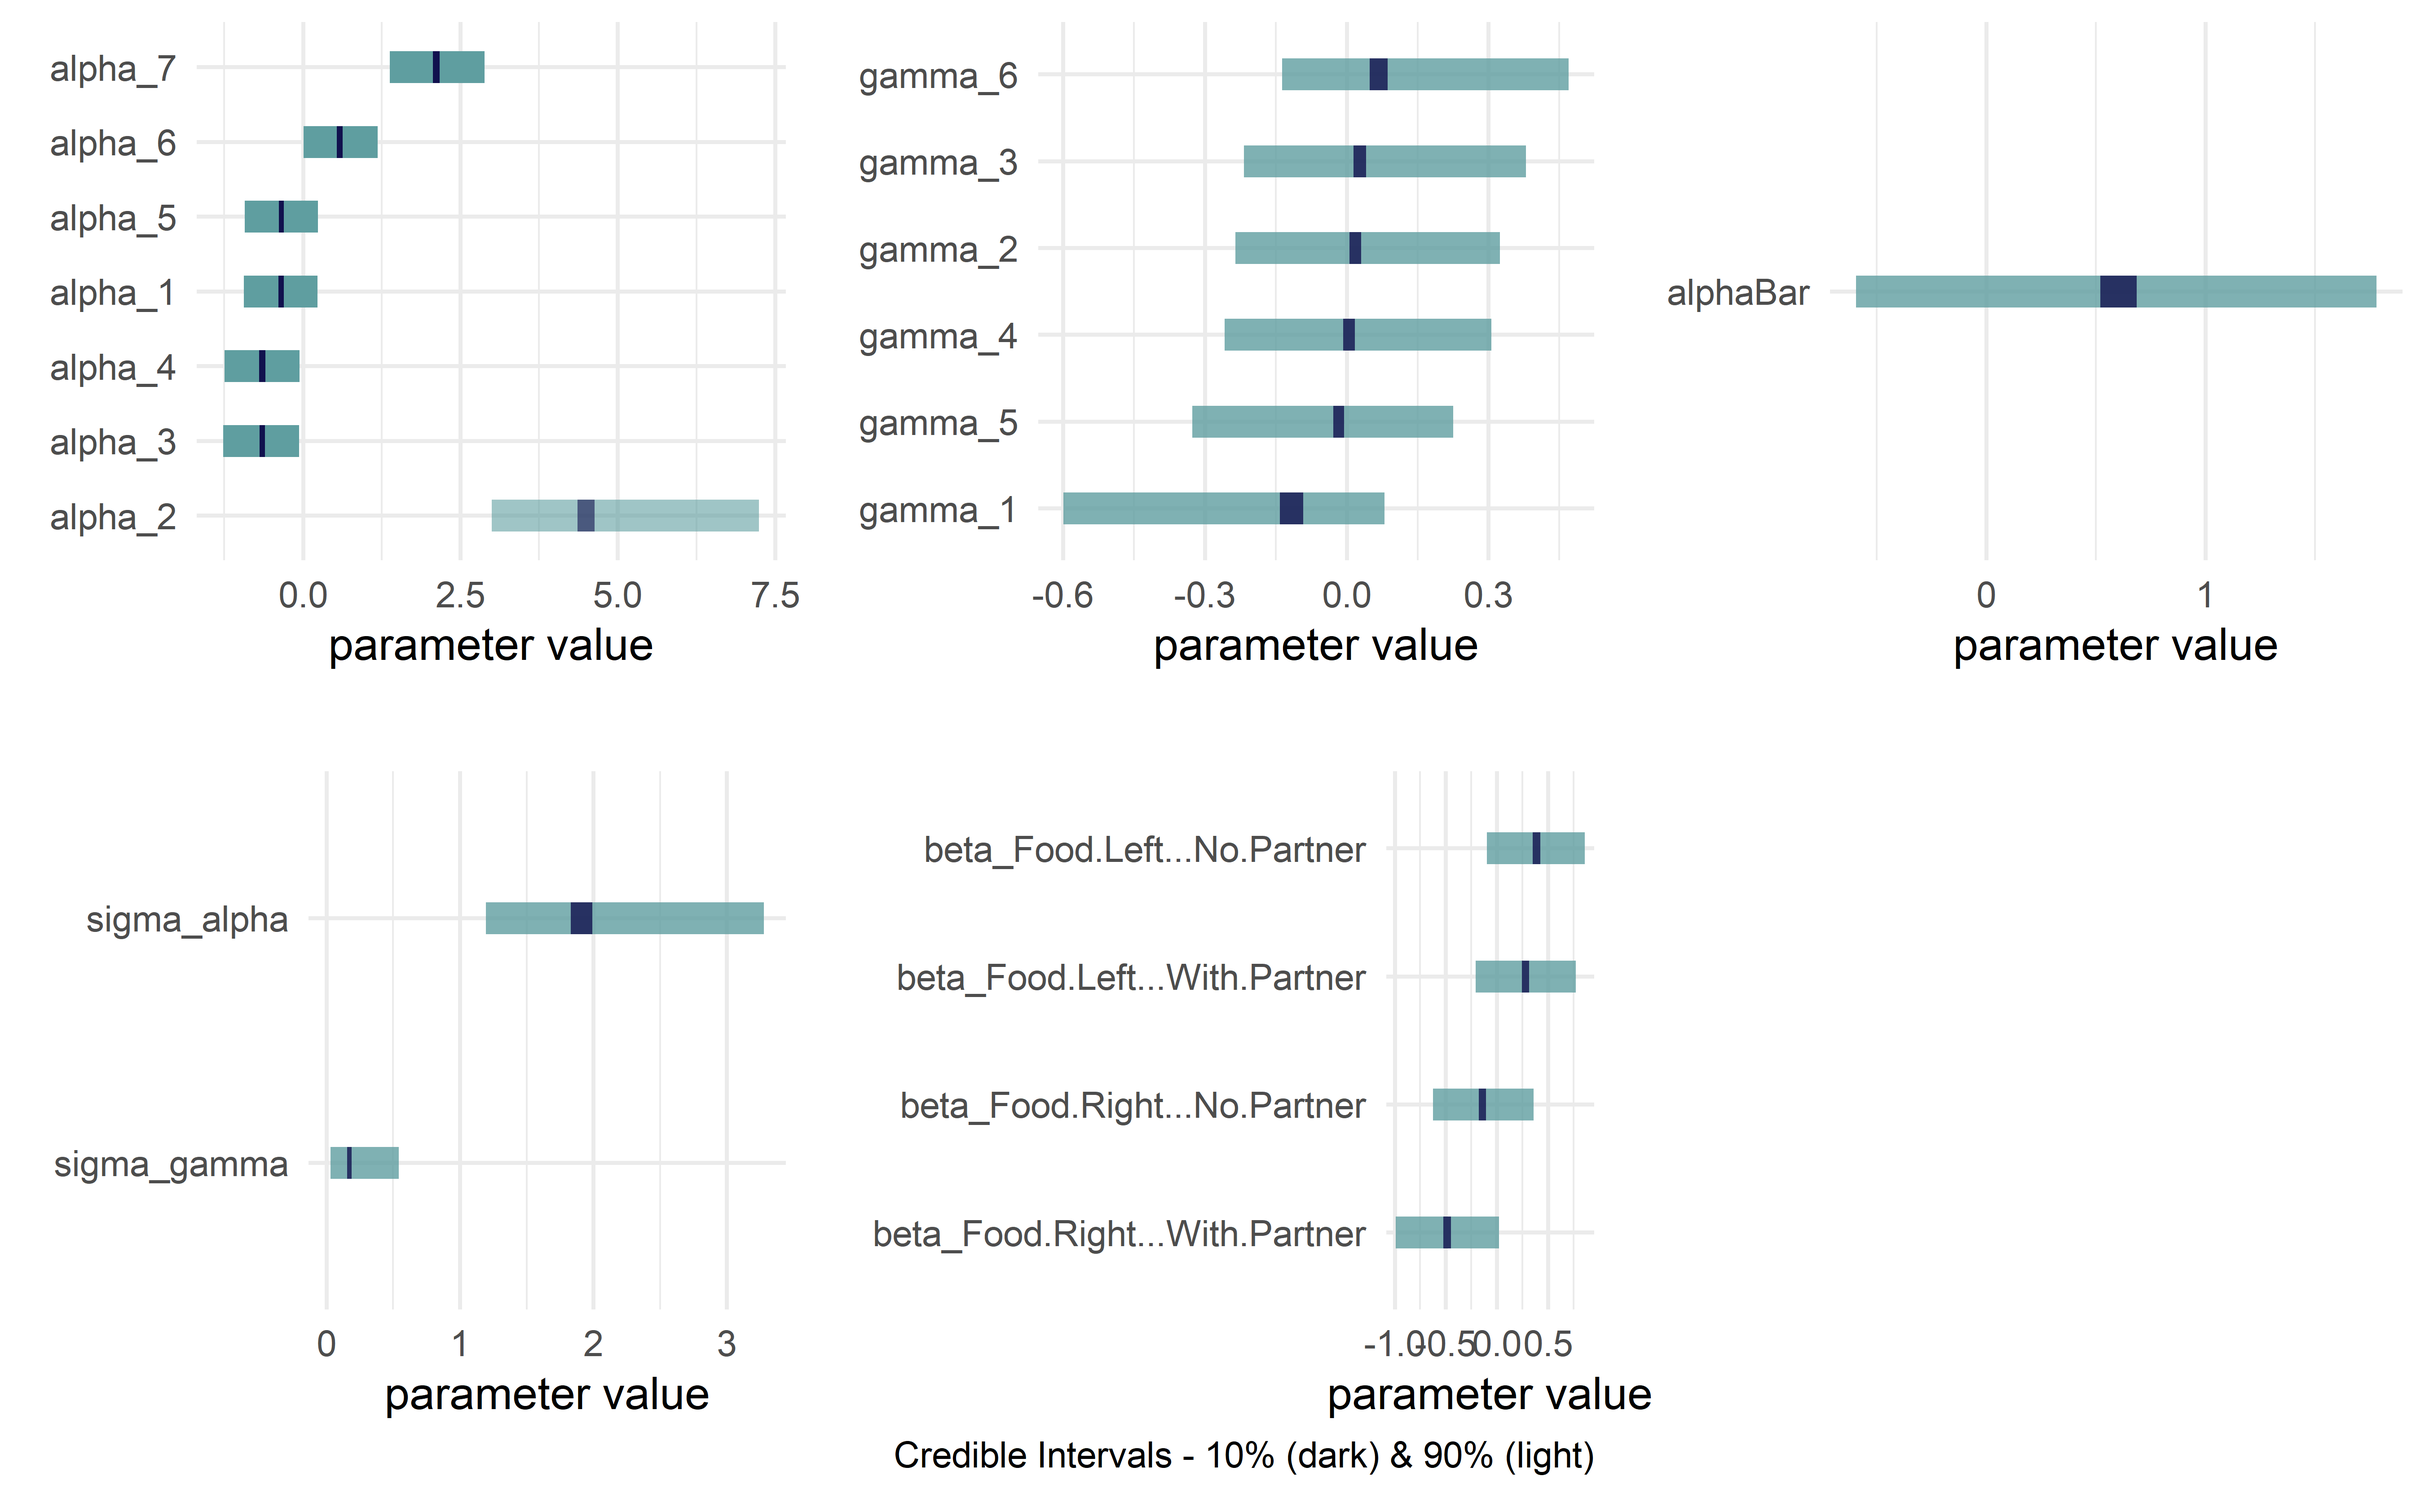
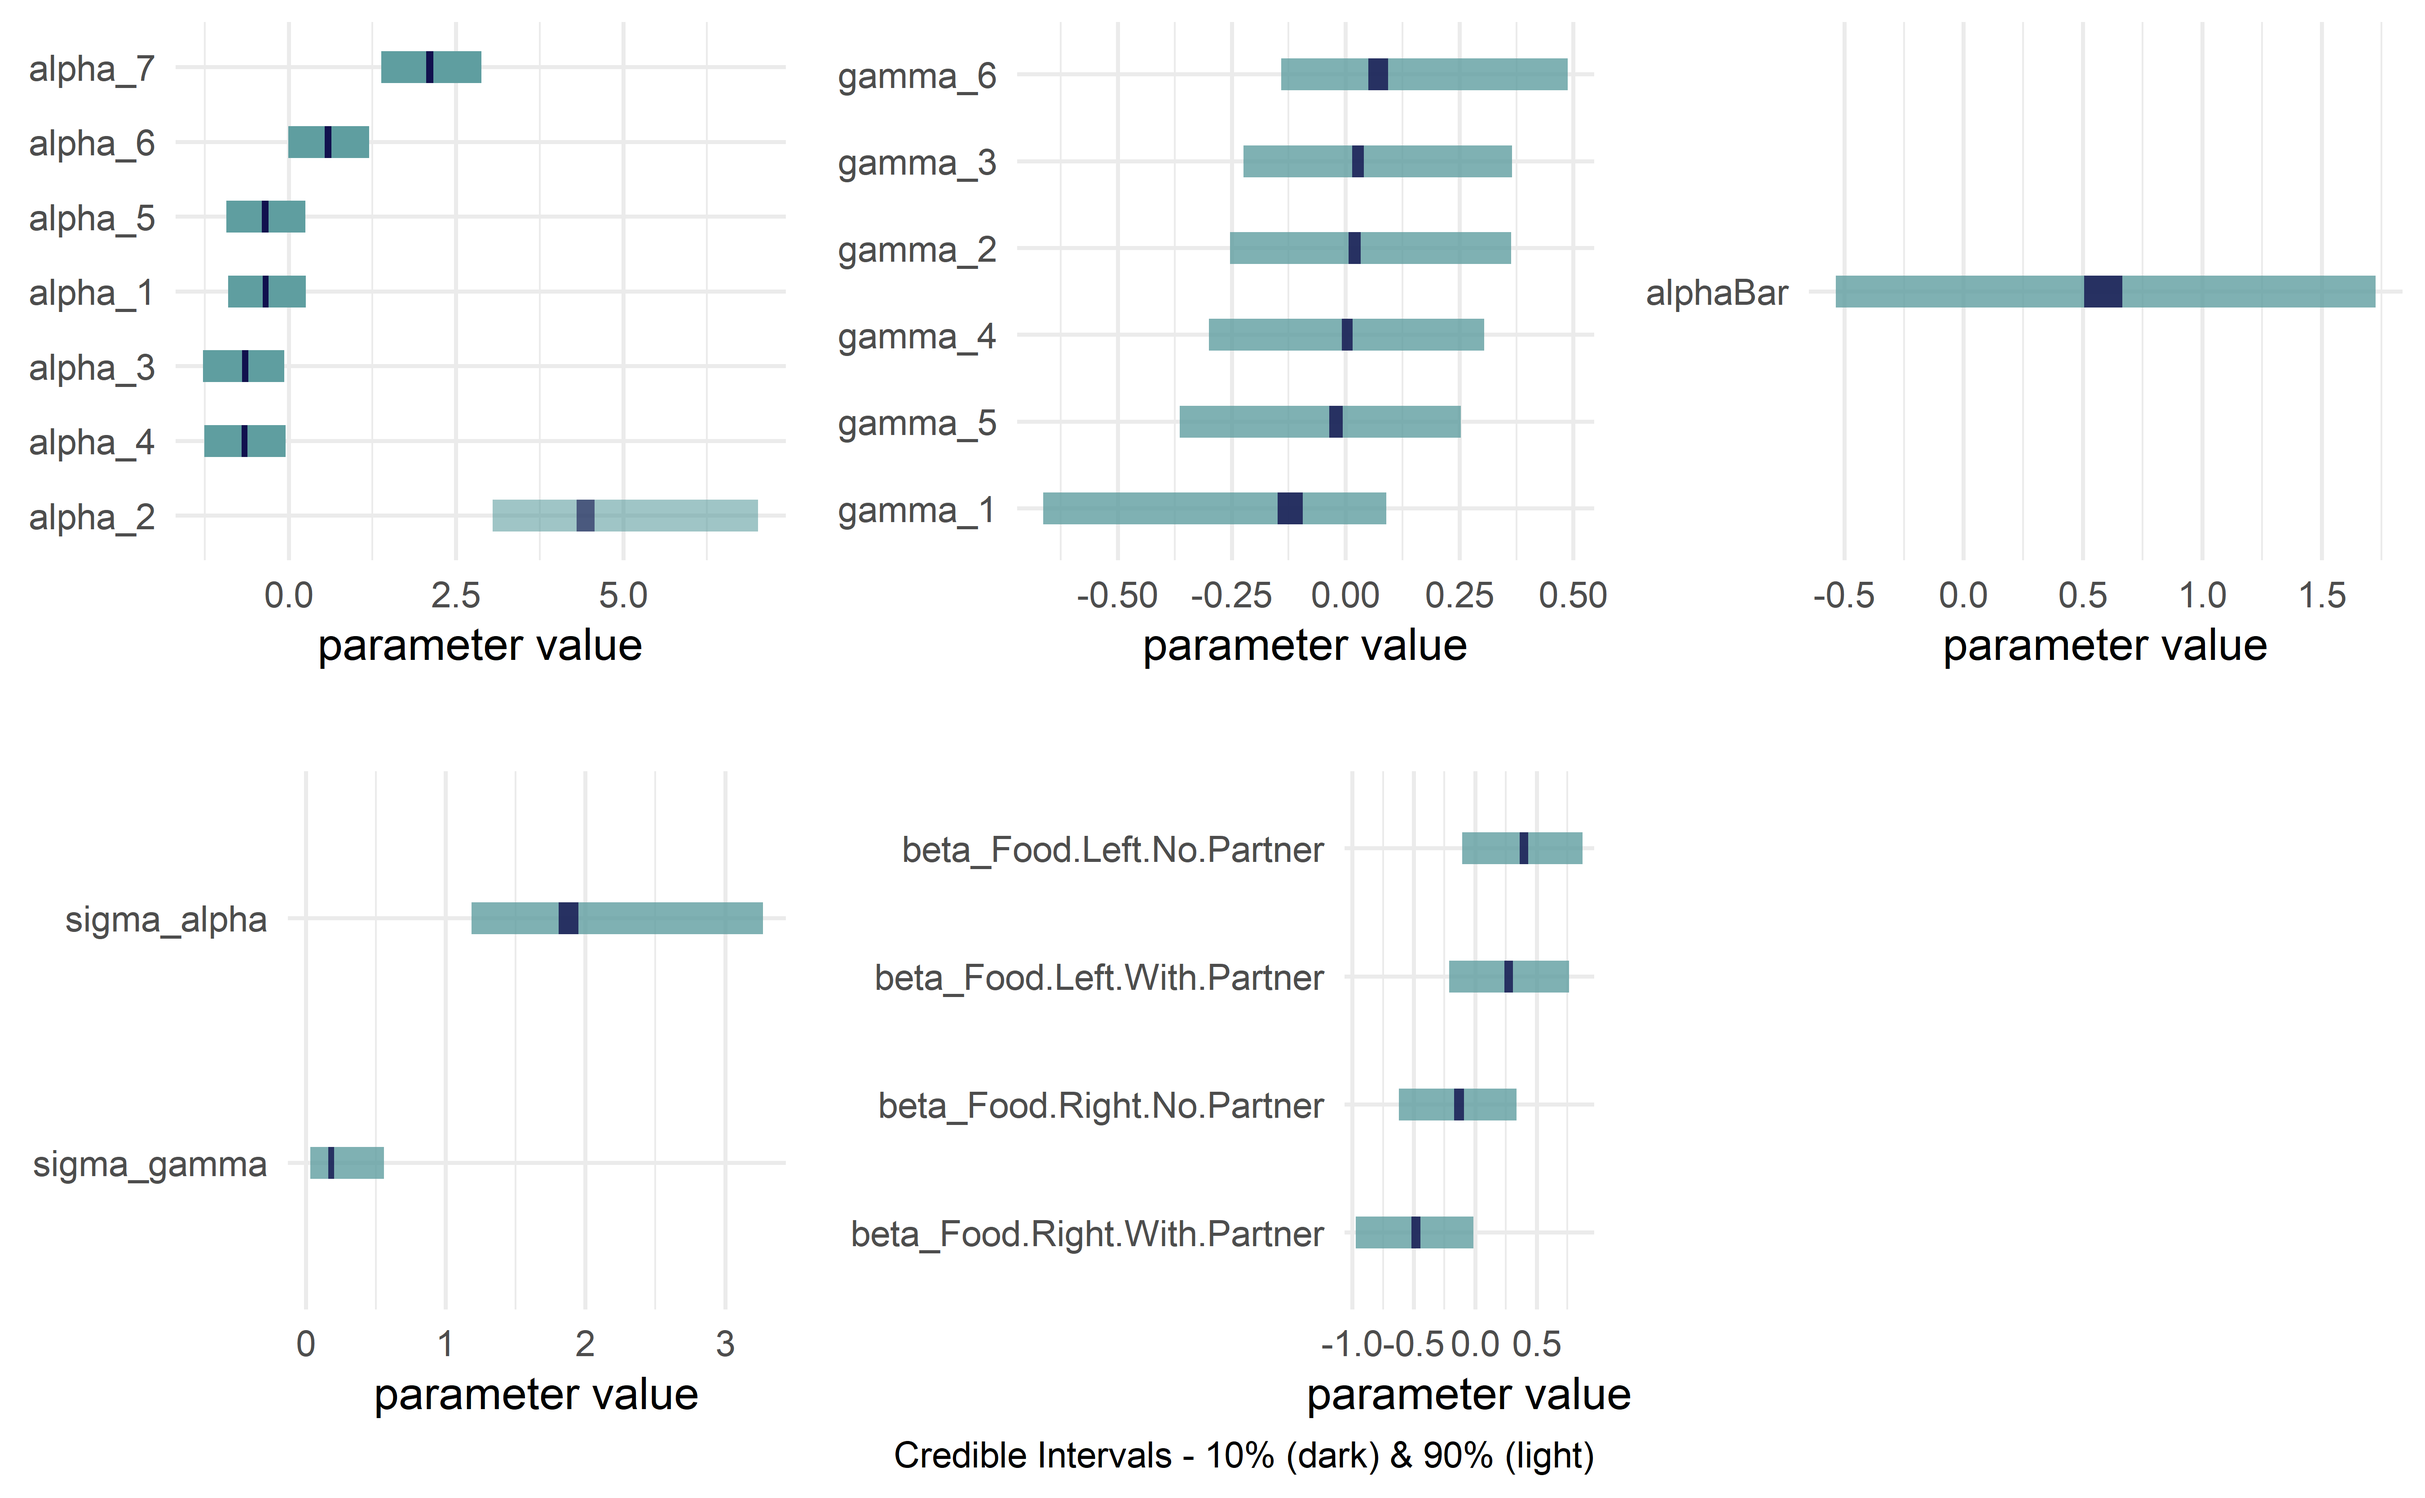
release 0.6.0

diff --git a/README.md b/README.md
@@ -183,16 +183,16 @@ drawsDF  ### see top of data frame
 #> # A tibble: 4,000 × 4
 #>    theta_Toyota.Corolla theta_Subaru.Outback theta_Kia.Forte theta_Jeep.Wrangler
 #>                   <dbl>                <dbl>           <dbl>               <dbl>
-#>  1                0.196                0.617           0.293               0.853
-#>  2                0.188                0.643           0.214               0.867
-#>  3                0.182                0.641           0.215               0.862
-#>  4                0.202                0.658           0.245               0.882
-#>  5                0.191                0.652           0.293               0.854
-#>  6                0.166                0.594           0.236               0.844
-#>  7                0.214                0.626           0.230               0.843
-#>  8                0.207                0.579           0.249               0.854
-#>  9                0.189                0.601           0.271               0.831
-#> 10                0.219                0.641           0.219               0.865
+#>  1                0.215                0.582           0.226               0.839
+#>  2                0.194                0.643           0.264               0.853
+#>  3                0.216                0.602           0.243               0.831
+#>  4                0.217                0.647           0.177               0.843
+#>  5                0.186                0.580           0.309               0.853
+#>  6                0.230                0.633           0.237               0.846
+#>  7                0.217                0.619           0.263               0.859
+#>  8                0.205                0.692           0.274               0.862
+#>  9                0.191                0.693           0.332               0.847
+#> 10                0.188                0.655           0.174               0.851
 #> # ℹ 3,990 more rows
 ```
 
@@ -253,9 +253,55 @@ numpyroCode = graph %>% dag_numpyro(mcmc = FALSE)
 #> mcmc = MCMC(NUTS(graph_model), num_warmup = 1000, num_samples = 4000)
 #> rng_key = random.PRNGKey(seed = 1234567)
 #> mcmc.run(rng_key,y,x)
-#> samples = mcmc.get_samples(group_by_chain=True) # dict: name -> [chains, draws, ...]
-#>  flat = {k: np.reshape(v, (-1,) + v.shape[2:]) for k, v in samples.items()} 
-#>  drawsDF = pd.DataFrame({k: flat[k].squeeze() for k in flat})
+#> axis_labels = {'x_dim': x_crd}
+#> rv_to_axes = {'theta': ['x_dim']}
+#> drop_names = set()
+#> samples = mcmc.get_samples(group_by_chain=True)  # dict: name -> [chains, draws, *axes]
+#> import numpy as np, pandas as pd, string
+#> # Flatten (chains*draws) and expand RVs using rv_to_axes + axis_labels
+#> flat = {name: np.reshape(val, (-1,) + val.shape[2:]) for name, val in list(samples.items())}
+#> out = {}
+#> allowed = set(string.ascii_letters + string.digits + '._')
+#> def sanitize_label(s):
+#>     s = str(s).strip().replace(' ', '.')          # spaces -> dots
+#>     s = ''.join((ch if ch in allowed else '.') for ch in s)
+#>     # collapse repeated dots without regex
+#>     while '..' in s:
+#>         s = s.replace('..', '.')
+#>     s = s.strip('.')
+#>     return s if s else '1'
+#> 
+#> for name, arr in list(flat.items()):
+#>     # Drop deterministic RVs entirely
+#>     if name in drop_names:
+#>         continue
+#>     axes = rv_to_axes.get(name, [])  # [] if not present
+#>     # If scalar per draw, keep as a single column
+#>     if arr.ndim == 1:
+#>         out[name] = arr
+#>         continue
+#>     # Otherwise (vector/matrix/...): expand to separate columns
+#>     trailing = arr.shape[1:]
+#>     arr2 = arr.reshape(arr.shape[0], int(np.prod(trailing)))
+#>     for j in range(arr2.shape[1]):
+#>         idx = np.unravel_index(j, trailing)
+#>         parts = []
+#>         for axis, i in enumerate(idx):
+#>             if axis < len(axes):
+#>                 axis_name = axes[axis]
+#>                 labels = axis_labels.get(axis_name)
+#>                 if labels is not None:
+#>                     labs = np.asarray(labels).astype(str)
+#>                     lab = labs[i] if i < labs.shape[0] else str(i + 1)
+#>                     parts.append(sanitize_label(lab))
+#>                 else:
+#>                     parts.append(str(i + 1))
+#>             else:
+#>                 parts.append(str(i + 1))
+#>         # No brackets; join labels with '_' so tibble won't append trailing dots
+#>         col = name if not parts else name + '_' + '_'.join(parts)
+#>         out[col] = arr2[:, j]
+#> drawsDF = pd.DataFrame(out)"
 #> ) ## END PYTHON STRING
 #> drawsDF = reticulate::py$drawsDF
 ```

diff --git a/NEWS.md b/NEWS.md
@@ -1,24 +1,35 @@
 # causact (development version)
 
-# causact 0.5.8
+# causact 0.6.0
+
+* Updated `dag_numpyro()` to address compatibility issues with `JAX 0.7.1`, resolving the error:  
+  `ImportError: cannot import name 'pjit_p' from 'jax.experimental.pjit'`.
+* Removed the dependency on Python’s `arviz` package to improve long-term compatibility across Python environments. The `arviz` dependency has introduced bugs in past releases and remains unstable in its current version.
+* Revised `dag_plotp()` to suppress warning messages triggered by recent updates to `ggplot2`.
+
 
 # causact 0.5.8
 * patch release to support changes to object types in ggplot2.
 
 # causact 0.5.6
+
 * patch release to fix numpyro integration issues. The default installation workflow now uses `numpyro==0.16.1` to avoid `TypeError` when using a discrete data distribution, e.g. Bernoulli.
 
 # causact 0.5.5
+
 * patch release to fix installation issues. The default installation workflow now uses `scipy==0.12` to avoid error `cannot import name 'gaussian' from 'scipy.signal'`.
 
 # causact 0.5.4
+
 * patch release to fix installation issues. The default installation workflow now uses `numpyro==0.13.2` to avoid `ModuleNotFoundError: No module named 'jax.linear_util'`.
 
 # causact 0.5.3
+
 * Fixed bug where beta distribution was being treated as Laplace distribution.
 * Fixed bug where nested plated were being indexed incorrectly in Python.
 
 # causact 0.5.2
+
 * Switched inference to Python's `numpyro`
 * `dag_greta()` is now deprecated; `dag_numpyro()` should be used as a drop-in replacement.
 * Added helper function for Python dependencies: `install_causact_deps`.
@@ -28,10 +39,12 @@
 * Temporarily removed support for the `dim` argument of probability distributions.
 
 # causact 0.4.2
+
 * Added `vignette("narrative-to-insight-with-causact") to introduce the package's encouraged user workflow.
 * Allow `greta::variable()` to be used for flat priors.
 
 # causact 0.4.1
+
 * Fixed bugs introduced by changes in `tidyr::replace_na()`.
 * Fixed bug related to rendering generative DAGs where two variables were both on multiple plates.
 

diff --git a/cran-comments.md b/cran-comments.md
@@ -1,6 +1,7 @@
-This is a very minor patch release to accommodate changes for ggplot2 v4.0.0 to get to CRAN.
+This is a minor release to accommodate breaking changes in Python dependencies, most notable JAX 0.7.1.
 
 ## Test environments
+
 * local R installation, R 4.5.1
 * R-hub: ubuntu-gcc-release (Ubuntu 20.04.1 LTS, R-release, GCC), R 4.5.1
 * win-builder (devel)
